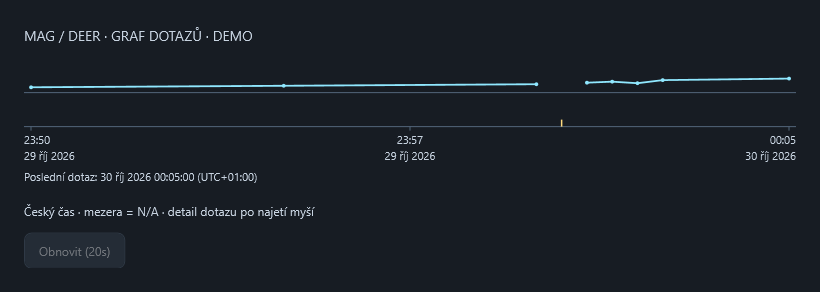
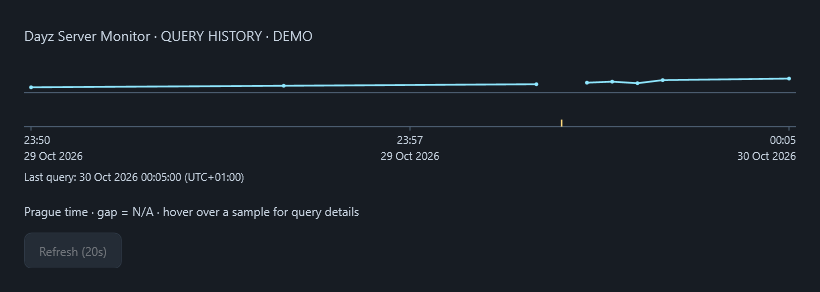
Rename app to Dayz Server Monitor and use English previews

diff --git a/src/MagDeer.App/MainWindow.xaml b/src/MagDeer.App/MainWindow.xaml
@@ -1,5 +1,5 @@
 <Window x:Class="MagDeer.App.MainWindow" xmlns="http://schemas.microsoft.com/winfx/2006/xaml/presentation" xmlns:x="http://schemas.microsoft.com/winfx/2006/xaml" xmlns:local="clr-namespace:MagDeer.App" xmlns:shell="clr-namespace:System.Windows.Shell;assembly=PresentationFramework"
- Title="MAG DEER · Server Monitor" Icon="Assets/app.ico" Style="{StaticResource {x:Type Window}}" Width="850" Height="890" MinWidth="460" MinHeight="400" WindowStyle="None" ResizeMode="CanResize" UseLayoutRounding="True" SnapsToDevicePixels="True" Loaded="OnLoaded" Closing="OnClosing" KeyDown="OnKeyDown">
+ Title="Dayz Server Monitor" Icon="Assets/app.ico" Style="{StaticResource {x:Type Window}}" Width="850" Height="890" MinWidth="460" MinHeight="400" WindowStyle="None" ResizeMode="CanResize" UseLayoutRounding="True" SnapsToDevicePixels="True" Loaded="OnLoaded" Closing="OnClosing" KeyDown="OnKeyDown">
   <shell:WindowChrome.WindowChrome><shell:WindowChrome CaptionHeight="0" ResizeBorderThickness="7" CornerRadius="0" GlassFrameThickness="0"/></shell:WindowChrome.WindowChrome>
   <Border BorderBrush="{DynamicResource BorderBrush}" BorderThickness="1">
     <Grid>
@@ -8,8 +8,7 @@
         <Grid.ColumnDefinitions><ColumnDefinition Width="*"/><ColumnDefinition Width="Auto"/></Grid.ColumnDefinitions>
         <StackPanel Orientation="Horizontal" VerticalAlignment="Center" Margin="23,0">
           <Image Source="Assets/app.ico" Width="32" Height="32" Margin="0,0,12,0"/>
-          <TextBlock Text="MAG / DEER" FontWeight="SemiBold" FontSize="16" VerticalAlignment="Center"/>
-          <TextBlock Text="SERVER MONITOR" Foreground="{DynamicResource MutedBrush}" FontSize="10" Margin="14,0,0,0" VerticalAlignment="Center"/>
+          <TextBlock Text="Dayz Server Monitor" FontWeight="SemiBold" FontSize="16" VerticalAlignment="Center"/>
         </StackPanel>
         <StackPanel Grid.Column="1" Orientation="Horizontal" VerticalAlignment="Center" Margin="0,0,10,0">
           <Button Content="—" ToolTip="{DynamicResource L.Minimize}" AutomationProperties.Name="{DynamicResource L.Minimize}" Click="MinimizeClick" Padding="12,6" Margin="2"/>

diff --git a/tests/MagDeer.ThemeTests/Program.cs b/tests/MagDeer.ThemeTests/Program.cs
@@ -24,7 +24,7 @@ internal static class Program
         Localization.Apply("en");
         Test("Embedded original T/R ICO contains seven usable sizes", () =>
         {
-            var resource = Application.GetResourceStream(new Uri("pack://application:,,,/MagDeerMonitor;component/Assets/app.ico"))!;
+            var resource = Application.GetResourceStream(new Uri("pack://application:,,,/DayzServerMonitor;component/Assets/app.ico"))!;
             using var stream = resource.Stream;
             var decoder = new IconBitmapDecoder(stream, BitmapCreateOptions.PreservePixelFormat, BitmapCacheOption.OnLoad);
             Assert(decoder.Frames.Count == 7, "Missing icon sizes");
@@ -162,6 +162,7 @@ internal static class Program
 
     private static void RenderComparison(string path)
     {
+        Localization.Apply("en");
         const int width = 480, height = 400;
         var images = new List<BitmapSource>();
         foreach (var choice in ThemeManager.Choices)
@@ -169,7 +170,7 @@ internal static class Program
             ThemeManager.Apply(choice.Id);
             var stack = new StackPanel { Margin = new Thickness(22, 14, 22, 12) };
             stack.Children.Add(Text(choice.Label, "TextBrush", 21));
-            stack.Children.Add(Text("MAG / DEER   ·   THEME PREVIEW / DEMO", "MutedBrush", 11));
+            stack.Children.Add(Text("Dayz Server Monitor   ·   THEME PREVIEW / DEMO", "MutedBrush", 11));
             stack.Children.Add(Text("16:30", "MetricBrush", 55));
             var countdown = new StackPanel();
             countdown.Children.Add(Text(L.Text("Countdown"), "MutedBrush", 11));
@@ -208,7 +209,7 @@ internal static class Program
     {
         Localization.Apply("en"); ThemeManager.Apply("Dark");
         var content = new StackPanel { Margin = new Thickness(24) };
-        content.Children.Add(Text("MAG / DEER · WORLD CLOCKS · DEMO", "MutedBrush", 12));
+        content.Children.Add(Text("Dayz Server Monitor · WORLD CLOCKS · DEMO", "MutedBrush", 12));
         content.Children.Add(Text(L.Text("PragueClock"), "MutedBrush", 13));
         content.Children.Add(Text("21:59", "MetricBrush", 88));
         content.Children.Add(Text("Wednesday, 28 October 2026", "MutedBrush", 15));
@@ -223,9 +224,9 @@ internal static class Program
 
     private static void RenderChart(string path)
     {
-        Localization.Apply("cs"); ThemeManager.Apply("Dark");
+        Localization.Apply("en"); ThemeManager.Apply("Dark");
         var content = new StackPanel { Margin = new Thickness(24) };
-        content.Children.Add(Text("MAG / DEER · GRAF DOTAZŮ · DEMO", "MutedBrush", 14));
+        content.Children.Add(Text("Dayz Server Monitor · QUERY HISTORY · DEMO", "MutedBrush", 14));
         var chart = new PlayerChart { Height = 134, Margin = new Thickness(0, 12, 0, 8) };
         var t = DateTimeOffset.Parse("2026-10-29T22:50:00Z", CultureInfo.InvariantCulture);
         foreach (var (seconds, players) in new[] { (0, 71), (300, 74), (600, 77), (630, -1), (660, 80), (690, 82), (720, 79), (750, 85), (900, 88) })
@@ -235,7 +236,7 @@ internal static class Program
                 players < 0 ? null : 80, players < 0 ? QueryFailure.Timeout : QueryFailure.None, "demo") { RequestedAt = at });
         }
         content.Children.Add(chart);
-        content.Children.Add(Text("Český čas · mezera = N/A · detail dotazu po najetí myší", "MutedBrush", 12));
+        content.Children.Add(Text("Prague time · gap = N/A · hover over a sample for query details", "MutedBrush", 12));
         content.Children.Add(new Button { Content = L.Text("RefreshCooldown", 20), IsEnabled = false, HorizontalAlignment = HorizontalAlignment.Left, Margin = new Thickness(0, 12, 0, 0) });
         var root = new Border { Width = 820, Height = 292, Child = content }; root.SetResourceReference(Border.BackgroundProperty, "BackgroundBrush");
         Layout(root, 820, 292);

diff --git a/src/MagDeer.App/MainWindow.xaml.cs b/src/MagDeer.App/MainWindow.xaml.cs
@@ -307,7 +307,7 @@ public partial class MainWindow : Window
             JsonStorage.Write(App.ConfigPath, next);
         }
         catch (Exception ex) when (ex is IOException or UnauthorizedAccessException or System.Security.SecurityException)
-        { MessageBox.Show(this, L.Text("SaveError", L.Error(ex)), "MAG DEER", MessageBoxButton.OK, MessageBoxImage.Warning); configuring = false; UpdateRefreshButton(); return; }
+        { MessageBox.Show(this, L.Text("SaveError", L.Error(ex)), "Dayz Server Monitor", MessageBoxButton.OK, MessageBoxImage.Warning); configuring = false; UpdateRefreshButton(); return; }
         settings = next;
         ConfigureClock();
         schedule = new(settings.RestartTimes);
@@ -454,9 +454,9 @@ public partial class MainWindow : Window
             var save = Task.Run(() => JsonStorage.Write(App.ConfigPath, snapshot));
             bool finished = await ShutdownDrain.WaitAsync([pollTask, ntpTask, save], TimeSpan.FromMilliseconds(1200));
             if (!finished || save.IsFaulted)
-                Debug.WriteLine("MAG DEER shutdown: background cleanup/save exceeded budget or failed.");
+                Debug.WriteLine("Dayz Server Monitor shutdown: background cleanup/save exceeded budget or failed.");
         }
-        catch (Exception ex) { Debug.WriteLine("MAG DEER shutdown: " + ex); }
+        catch (Exception ex) { Debug.WriteLine("Dayz Server Monitor shutdown: " + ex); }
         finally
         {
             // Dispose only after any canceled consumers have finished using the token.

diff --git a/src/MagDeer.App/App.xaml.cs b/src/MagDeer.App/App.xaml.cs
@@ -17,10 +17,11 @@ public partial class App : Application
         var dataArg = Array.IndexOf(args, "--data-dir");
         if (dataArg >= 0 && dataArg + 1 < args.Length) DataRoot = Path.GetFullPath(args[dataArg + 1]);
         var identity = Convert.ToHexString(SHA256.HashData(Encoding.UTF8.GetBytes(DataRoot.ToUpperInvariant())))[..20];
+        // Keep the existing identity so old and renamed builds cannot share one data directory.
         mutex = new Mutex(true, @"Local\MagDeerMonitor-" + identity, out ownsMutex);
         if (!ownsMutex)
         {
-            MessageBox.Show(L.Text("AlreadyRunning"), "MAG DEER", MessageBoxButton.OK, MessageBoxImage.Information);
+            MessageBox.Show(L.Text("AlreadyRunning"), "Dayz Server Monitor", MessageBoxButton.OK, MessageBoxImage.Information);
             Shutdown(); return;
         }
         MonitorSettings settings;
@@ -38,7 +39,7 @@ public partial class App : Application
         }
         catch (Exception ex) when (ex is IOException or UnauthorizedAccessException or JsonException or ArgumentException)
         {
-            MessageBox.Show(L.Text("ConfigError", L.Error(ex), ConfigPath), "MAG DEER", MessageBoxButton.OK, MessageBoxImage.Error);
+            MessageBox.Show(L.Text("ConfigError", L.Error(ex), ConfigPath), "Dayz Server Monitor", MessageBoxButton.OK, MessageBoxImage.Error);
             Shutdown(1); return;
         }
         if (settings.SavedServers.Count == 0) settings.SavedServers.Add(ServerProfile.From(settings));

diff --git a/src/MagDeer.Core/L.cs b/src/MagDeer.Core/L.cs
@@ -90,7 +90,7 @@ public static class L
         ["Fullscreen"] = ["Full screen", "Celá obr.", "Pełny ekran", "Vollbild", "Pantalla completa"],
         ["FullscreenTip"] = ["Full screen: F11; Escape to return", "Celá obrazovka: F11, Escape pro návrat", "Pełny ekran: F11; Escape — powrót", "Vollbild: F11; Escape zurück", "Pantalla completa: F11; Escape para volver"],
         ["Settings"] = ["Settings", "Nastavení", "Ustawienia", "Einstellungen", "Ajustes"],
-        ["SettingsTitle"] = ["Settings · MAG DEER", "Nastavení · MAG DEER", "Ustawienia · MAG DEER", "Einstellungen · MAG DEER", "Ajustes · MAG DEER"],
+        ["SettingsTitle"] = ["Settings · Dayz Server Monitor", "Nastavení · Dayz Server Monitor", "Ustawienia · Dayz Server Monitor", "Einstellungen · Dayz Server Monitor", "Ajustes · Dayz Server Monitor"],
         ["SettingsHeading"] = ["Monitor settings", "Nastavení monitoru", "Ustawienia monitora", "Monitor-Einstellungen", "Ajustes del monitor"],
         ["SettingsIntro"] = ["Changes apply after saving. Restart times always use Prague time.", "Změny se použijí po uložení. Časy restartů jsou vždy české.", "Zmiany po zapisaniu. Restarty zawsze według czasu Pragi.", "Änderungen nach dem Speichern. Neustarts immer nach Prager Zeit.", "Los cambios se aplican al guardar. Reinicios siempre en hora de Praga."],
         ["ServerTab"] = [" Server & schedule ", " Server a plán ", " Serwer i plan ", " Server & Zeitplan ", " Servidor y horario "],

diff --git a/src/MagDeer.App/DesktopServices.cs b/src/MagDeer.App/DesktopServices.cs
@@ -27,6 +27,7 @@ public static class DesktopServices
     public static void OpenFolder(string path) => Process.Start(new ProcessStartInfo("explorer.exe", path) { UseShellExecute = true });
     public static void SetStartup(bool enabled)
     {
+        // Retain the registry value name to update/remove existing startup registrations.
         using var key = Registry.CurrentUser.CreateSubKey(@"Software\Microsoft\Windows\CurrentVersion\Run");
         if (enabled)
         {
@@ -69,12 +70,12 @@ public sealed class Notifications : IDisposable
     private readonly Forms.NotifyIcon icon = new()
     {
         Icon = System.Drawing.SystemIcons.Information,
-        Text = "MAG DEER · Server Monitor",
+        Text = "Dayz Server Monitor",
         Visible = false
     };
     public Notifications(Window window)
     {
-        var resource = Application.GetResourceStream(new Uri("pack://application:,,,/MagDeerMonitor;component/Assets/app.ico"));
+        var resource = Application.GetResourceStream(new Uri("pack://application:,,,/DayzServerMonitor;component/Assets/app.ico"));
         if (resource is not null)
         {
             using var stream = resource.Stream;

diff --git a/README.md b/README.md
@@ -1,4 +1,4 @@
-# MAG DEER Server Monitor
+# Dayz Server Monitor
 
 ![T/R icon](docs/images/app-icon.png)
 
@@ -10,12 +10,12 @@ It started with MAG DEER, but you can select another server or save your own. Th
 
 ## Get it running
 
-Download `MAG-DEER-Server-Monitor-1.6.0-win-x64.zip` from Releases, unpack it into a folder you can write to, then run `MagDeerMonitor.exe`. It works on Windows 10/11 x64. No separate .NET installation, account, API key or administrator access is needed.
+Download `Dayz-Server-Monitor-1.6.1-win-x64.zip` from Releases, unpack it into a folder you can write to, then run `DayzServerMonitor.exe`. It works on Windows 10/11 x64. No separate .NET installation, account, API key or administrator access is needed.
 
 Settings are saved beside the EXE in `config.json`. History is kept in `data`. When updating, close the old copy and keep those two items. For a separate data folder, use:
 
 ```powershell
-.\MagDeerMonitor.exe --data-dir "D:\MAG Monitor Data"
+.\DayzServerMonitor.exe --data-dir "D:\Dayz Monitor Data"
 ```
 
 The app unpacks its bundled native runtime into the user's temporary folder on first launch. If you enable startup with Windows, keep the EXE in a stable location.
@@ -56,7 +56,7 @@ Install the .NET 8 SDK on Windows, then run:
 
 The script builds the Visual Studio solution, runs the console and WPF checks, and creates a self-contained single-file Windows x64 build plus source ZIP in `artifacts`. It never launches the desktop app. The WPF checks render controls into PNG files without opening windows.
 
-To work in Visual Studio 2022, open `MagDeerMonitor.sln` with the .NET desktop development workload installed. No external NuGet package is needed beyond Microsoft's runtime/build packs. See [validation](docs/VALIDATION.md) for what has and has not been checked.
+To work in Visual Studio 2022, open `DayzServerMonitor.sln` with the .NET desktop development workload installed. No external NuGet package is needed beyond Microsoft's runtime/build packs. See [validation](docs/VALIDATION.md) for what has and has not been checked.
 
 ## Stream Deck
 

diff --git a/README.cs.md b/README.cs.md
@@ -1,10 +1,10 @@
-# MAG DEER Server Monitor
+# Dayz Server Monitor
 
 Malá aplikace pro Windows, kterou si můžeš nechat otevřenou na druhém monitoru při hraní DayZ. Ukazuje počet hráčů, poslední úspěšnou odpověď a odpočet do plánovaného restartu.
 
 ## Spuštění
 
-V Releases stáhni `MAG-DEER-Server-Monitor-1.6.0-win-x64.zip`, rozbal ho do zapisovatelné složky a spusť `MagDeerMonitor.exe`. Funguje na Windows 10/11 x64. .NET je součástí balíčku, správce ani API klíč nepotřebuješ.
+V Releases stáhni `Dayz-Server-Monitor-1.6.1-win-x64.zip`, rozbal ho do zapisovatelné složky a spusť `DayzServerMonitor.exe`. Funguje na Windows 10/11 x64. .NET je součástí balíčku, správce ani API klíč nepotřebuješ.
 
 Vedle EXE se ukládá `config.json`, historie je ve složce `data`. Při aktualizaci starou aplikaci zavři a obojí si ponech. V **Settings → Display** můžeš přepnout angličtinu na češtinu a vybrat světlý, tmavý, oranžový nebo šedozelený motiv.
 
@@ -22,7 +22,7 @@ Výchozí časy 03/07/11/15/19/23 jsou příklad, který musíš ověřit pro sv
 
 ## Vlastní sestavení
 
-Na Windows nainstaluj .NET 8 SDK a spusť `./build.ps1`, případně otevři `MagDeerMonitor.sln` ve Visual Studiu 2022 s podporou desktopového .NET. Ve složce `artifacts` vznikne portable EXE, distribuční ZIP a zdrojový ZIP. Build aplikaci neotevírá. Při hraní DayZ ji pro ověření sami nespouštíme ani nepřepínáme do popředí.
+Na Windows nainstaluj .NET 8 SDK a spusť `./build.ps1`, případně otevři `DayzServerMonitor.sln` ve Visual Studiu 2022 s podporou desktopového .NET. Ve složce `artifacts` vznikne portable EXE, distribuční ZIP a zdrojový ZIP. Build aplikaci neotevírá. Při hraní DayZ ji pro ověření sami nespouštíme ani nepřepínáme do popředí.
 
 ## Jak aplikace vznikla
 

diff --git a/docs/VALIDATION.md b/docs/VALIDATION.md
@@ -1,4 +1,4 @@
-# Validation · 1.6.0
+# Validation · 1.6.1
 
 The release is built for Windows x64 using .NET SDK 8.0.427. The automated checks cover the areas below. They do not establish multi-day reliability or confirm any provider's restart schedule.
 
